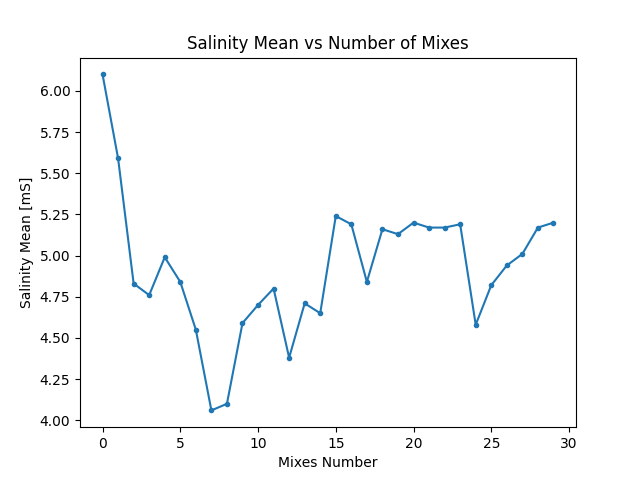
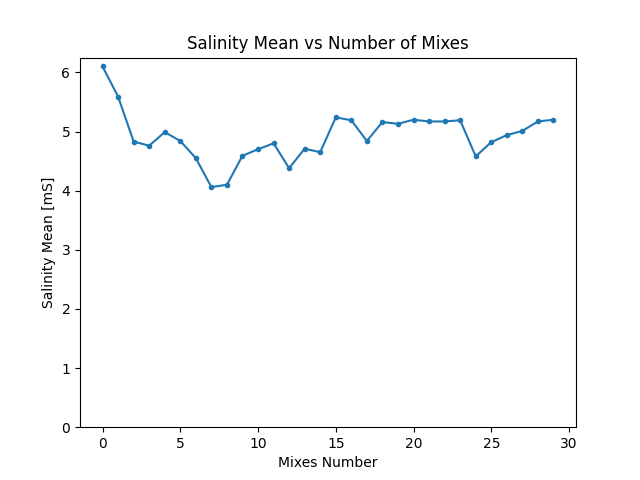
update

diff --git a/Cooking_Moves.py b/Cooking_Moves.py
@@ -22,7 +22,7 @@ from SalenitySensor.SalenitySensor import SolenitySensor as salt_sensor
 #-------------------------------------------------------------------------------------------------------------------------------------------------------------------
 
 
-task = "Final Demo"
+#task = "Final Demo"
 #task = "Average Salinity Detection"
 #task = "Salt loop experiment"
 #task = "Cooking concept proof"
@@ -51,33 +51,14 @@ def main():
 
     if task == "Final Demo":
         print("Task: " + task)
-
-        #Heat used = 6
-        mixing_sequence_time = 39.0
-        #parameters:
-        total_cooking_time = 1100
-        time_salt = 1.0
-        #time_stop = 21
-        time_stop = 0
-
-
-        #start at lower left hob
-        move_to_scrambling_home(robot)#yes, the names are switched
-        move_hot_to_cold(robot)# yes its another way around
-        add_salt(robot, time_salt)
-
-        #now cook
-        cut_yolks(robot)
-        no_loop = math.ceil(total_cooking_time/(time_stop + mixing_sequence_time))
-        for n in range(no_loop):
-            now = datetime.now().time()  # time object
-            print("now =", now)
-            standard_mix_procedure(robot, 1)
-            time.sleep(time_stop)
-
-        move_cold_to_hot(robot)# yes, its opposite then name
-
-
+        desired_mean = 10
+        desired_variance = 0.8
+        #standard initaial conditions
+        #initial_time_mill = 0
+        #initial_time_stop = 120
+        initial_time_mill = 0
+        initial_time_stop = 0
+        cooking_loop(robot, SALT, desired_mean, desired_variance, initial_time_stop, initial_time_mill, "True", "True")
 
     if task == "Average Salinity Detection":
         print("Task: " + task)
@@ -108,9 +89,9 @@ def main():
 
     if task == "Add Salt":
         print("Task: " + task)
+        add_salt(robot, 0)
         add_salt(robot, 0.5)
-        add_salt(robot, 0.5)
-        add_salt(robot, 0.5)
+        add_salt(robot, 1)
 
     if task == "Current Workspace":
         print("Task: " + task)
@@ -190,11 +171,6 @@ def main():
 
 time.sleep(3)
 
-
-
-
-
-
 #-------------------------------------------------------------------------------------------------------------------------------------------------------------------
 #
 #                                                      Functions For Movement
@@ -233,6 +209,67 @@ def move_hot_to_cold(robot):
     robot.movel_tool([0, 0, 0.13, 0, 0, 0])
     robot.translatel_rel([0, -0.33, 0, 0, 0, 0], vel=0.1)
     move_to_mixing_home(robot)
+
+def cooking_loop(robot, SALT, desired_mean, desired_variance, initial_time_stop, initial_time_mill, if_cook, if_test):
+    # Heat used = 6
+    mixing_sequence_time = 39.0
+    # parameters:
+    total_cooking_time = 1100
+    time_salt = initial_time_mill
+    # time_stop = 21
+    time_stop = initial_time_stop
+    no_loop = math.ceil(total_cooking_time / (time_stop + mixing_sequence_time))
+
+    if if_cook == "True":
+        # start at lower left hob
+        move_to_scrambling_home(robot)  # yes, the names are switched
+        #time.sleep(20)
+        cut_yolks(robot)
+        move_hot_to_cold(robot)  # yes its another way around
+        add_salt(robot, time_salt)
+
+        # now cook
+        for n in range(no_loop):
+            now = datetime.now().time()  # time object
+            print("now =", now)
+            standard_mix_procedure(robot, 1)
+            time.sleep(time_stop)
+
+        move_cold_to_hot(robot)  # yes, its opposite then name
+
+    if if_test == "True":
+        input("Ready for testing part? Switch off thee hob, cool down the eggs and place eggs on 'hot' hob.")
+
+        #Salt Measurements with robotic arm
+        data = mass_salinity_test(robot, SALT)  # data is a list of measurements stored as floats
+        salt_mean = statistics.mean(data)       # mean - number of salt indication
+        salt_variance = statistics.variance(data)       # variance - measure of mixing
+
+        #next parameters computation - salt
+        mean_sal_error = desired_mean - salt_mean       # error for p controller for salt
+        P_salt_mill = 0.35 * 0.8  # 0.35 is actual rate of adding salinity per second, 0.8 to avoid overshoot, should then not overshoot by safty margin of 0.2
+        next_time_mill = initial_time_mill + P_salt_mill * mean_sal_error  # P controller adjusting time of pressing the mill
+
+        # next parameters computation - mixing
+        # The robot cooks for a given time by erforming mixing sequence(40 sec duration) and then stopping for a stop_time
+        variance_sal_error = desired_variance/salt_variance     # an error by not linear - its how many time the variance is bigger than average
+        extra_mix = 6.7 * math.log(variance_sal_error)      # 6.7 is time contsnt from mixes vs variance on raw eggs exponent matching (1/0.149)
+        init_mixes_no = no_loop     # bad code reassignment, no of mixing sequences robot did during cooking
+        next_time_stop = ((init_mixes_no + extra_mix)*(40 + initial_time_stop)/(init_mixes_no)) - 40.0  # now its translating new number of mixes into stop time before mixing
+
+        print("Demanded values: Mean - " + str(desired_mean) + " Variance - " + str(desired_variance))
+
+        print("Initial mill time: " + str(initial_time_mill))
+        print("Initial stop time: " + str(initial_time_stop))
+
+        print("Measured mean: " + str(salt_mean))
+        print("Measured variance: " + str(salt_variance))
+
+        print("Next mill time: " + str(next_time_mill))
+        print("Next stop time: " + str(next_time_stop))
+
+        return next_time_mill, next_time_stop
+
 
 def salt_loop(robot, SALT, desired_salt):
     allowed_iteratons = 3
@@ -445,12 +482,12 @@ def add_salt(robot, time_salt_mill):
     ##Now the pan is under salt
     robot.translatel_rel([0, 0.005, 0.147, 0, 0, 0], vel=0.1)
     robot.movej_rel([0, 0, 0, 0, 1.57, 0])
-    robot.movej_rel([0.05, -0.16, 0, 0, 0, 0])
-    robot.movej_rel([0, 0, -0.036, 0, 0, 0])
+    robot.movej_rel([0.05, -0.147, 0, 0, 0, 0])
+    robot.movej_rel([0, 0, -0.02, 0, 0, 0])
     time.sleep(time_salt_mill)
 
-    robot.movej_rel([0, 0, 0.036, 0, 0, 0])
-    robot.movej_rel([-0.05, 0.16, 0, 0, 0, 0])
+    robot.movej_rel([0, 0, 0.02, 0, 0, 0])
+    robot.movej_rel([-0.05, 0.147, 0, 0, 0, 0])
     robot.movej_rel([0, 0, 0, 0, -1.57, 0])
     robot.translatel_rel([0, -0.005, -0.1, 0, 0, 0], vel=0.1)
     robot.translatel_rel([0.05, 0, 0, 0, 0, 0], vel=0.1)
@@ -476,7 +513,7 @@ def standard_mix_procedure(robot, no_times):
 
 def cut_yolks(robot):
     for angle in [0,10, 20, 30, 40, 50,  60, 70, 80, 90, 100, 110, 120, 130, 140, 150, 160, 170, 180]:
-        fold_eggs(robot, 0.13, angle, 0.085)
+        fold_eggs(robot, 0.133, angle, 0.085)
 
 def standard_scrambling_procedure(robot, no_times):
     zigzag_no = 3
@@ -567,14 +604,14 @@ def mass_salinity_test(robot, SALT):
     # h4 - dip into water
     # h5 - up to brush
     h1 = 0.32
-    h2 = 0.0995
-    h3 = 0.02
+    h2 = 0.0945
+    h3 = 0.025
     h4 = 0.062
     h5 = 0.22
 
     offsets = [
         #[0.05, 0.05]
-        [-0.074, -0.03], [-0.057, -0.057], [-0.03, -0.074], [0, -0.08], [0.03, -0.074], [0.057, -0.057], [0.074, -0.03]
+        [-0.06, -0.05], [-0.04, -0.05], [-0.02, -0.05], [0, -0.05], [0.02, -0.05], [0.04, -0.05], [0.06, -0.05]
     ]
 
     move_to_mixing_home(robot)
@@ -593,12 +630,12 @@ def mass_salinity_test(robot, SALT):
         for i in range(10):
             SALT.getNextReading()
             robot.translatel_rel([0, 0, 0.01, 0, 0, 0])
-            robot.movel_tool([0, abs(offset[1])/7, 0, 0, 0, 0])
+            robot.movel_tool([0, abs(offset[1])/9.0, 0, 0, 0, 0])
             robot.translatel_rel([0, 0, -0.01, 0, 0, 0])
 
         #########
         robot.movel_tool([0, 0, h3, 0, 0, 0], acc = 0.2)
-        robot.movel_tool([0, -2 * 5.0 / 7.0 * abs(offset[1]), 0, 0, 0, 0], acc = 0.2)
+        robot.movel_tool([0, -2 * 5.0 / 9.0 * abs(offset[1]), 0, 0, 0, 0], acc = 0.2)
         robot.movel_tool([-offset[0], -offset[1], 0, 0, 0, 0], acc = 0.2)
         robot.movel_tool([0, 0, h2, 0, 0, 0], acc = 0.2)
         # brush

diff --git a/LoopSim/LoopSIm.py b/LoopSim/LoopSIm.py
@@ -1,0 +1,62 @@
+import math
+
+def controller_iteration(mean, variance, desired_mean, desired_variance, initial_time_mill, initial_time_stop):
+    salt_mean = mean
+    salt_variance = variance
+
+    # parameters:
+    mixing_sequence_time = 39.0
+    total_cooking_time = 1100
+
+    no_loop = math.ceil(total_cooking_time / (initial_time_stop + mixing_sequence_time))
+
+    #mean computation
+    mean_sal_error = desired_mean - salt_mean
+    P_salt_mill = 0.35 * 0.7  # 3 is actual rate, 0.7 to avoid overshoot
+    next_time_mill = initial_time_mill + P_salt_mill * mean_sal_error
+
+    #variation computation
+    variance_sal_error = desired_variance/salt_variance
+    extra_mix = 6.7 * math.log(variance_sal_error)
+    init_mixes_no = no_loop
+    next_time_stop = ((init_mixes_no + extra_mix)*(40 + initial_time_stop)/(init_mixes_no)) - 40.0
+
+    print("Demanded values: Mean - " + str(desired_mean) + " Variance - " + str(desired_variance))
+
+    print("Initial mill time: " + str(initial_time_mill))
+    print("Initial stop time: " + str(initial_time_stop))
+
+    print("Measured mean: " + str(salt_mean))
+    print("Measured variance: " + str(salt_variance))
+
+    print("Next mill time: " + str(next_time_mill))
+    print("Next stop time: " + str(next_time_stop))
+    print()
+    print()
+
+    return next_time_mill, next_time_stop
+
+def eggs_model(time_stop, mill_time):
+    mean_egg = 6 + 4 * mill_time
+
+    mixes = math.ceil(1100 / (time_stop + 39.0))
+    var_egg = 2.8 * math.exp(-0.149 * mixes) + 0.069
+    return mean_egg, var_egg
+
+def cooking_iteration(desired_mean, desired_variance, initial_time_mill, initial_time_stop):
+    mean_egg, var_egg = eggs_model(initial_time_stop, initial_time_mill)
+    initial_time_mill, initial_time_stop = controller_iteration(mean_egg, var_egg, desired_mean, desired_variance, initial_time_mill, initial_time_stop)
+    return initial_time_mill, initial_time_stop
+
+def the_whole_loop(desired_mean, desired_variance):
+    initial_time_mill = 0
+    initial_time_stop = 120
+    for n in range(20):
+        initial_time_mill, initial_time_stop = cooking_iteration(desired_mean, desired_variance, initial_time_mill, initial_time_stop)
+
+
+#the_whole_loop(10, 1.5)
+controller_iteration(8.3, 2.8, 7.87, 0.3, 0, 120)
+
+
+

diff --git a/Plots/Newest/MixingLoopTest/varianceFromMixing.py b/Plots/Newest/MixingLoopTest/varianceFromMixing.py
@@ -45,6 +45,7 @@ plt.title("Salinity Mean vs Number of Mixes")
 plt.plot(mixes, means, marker = ".")
 plt.xlabel("Mixes Number")
 plt.ylabel("Salinity Mean [mS]")
+plt.ylim(0, 6.25)
 plt.savefig("NewMeanVsMixes.png")
 #plt.show()
 plt.clf()
